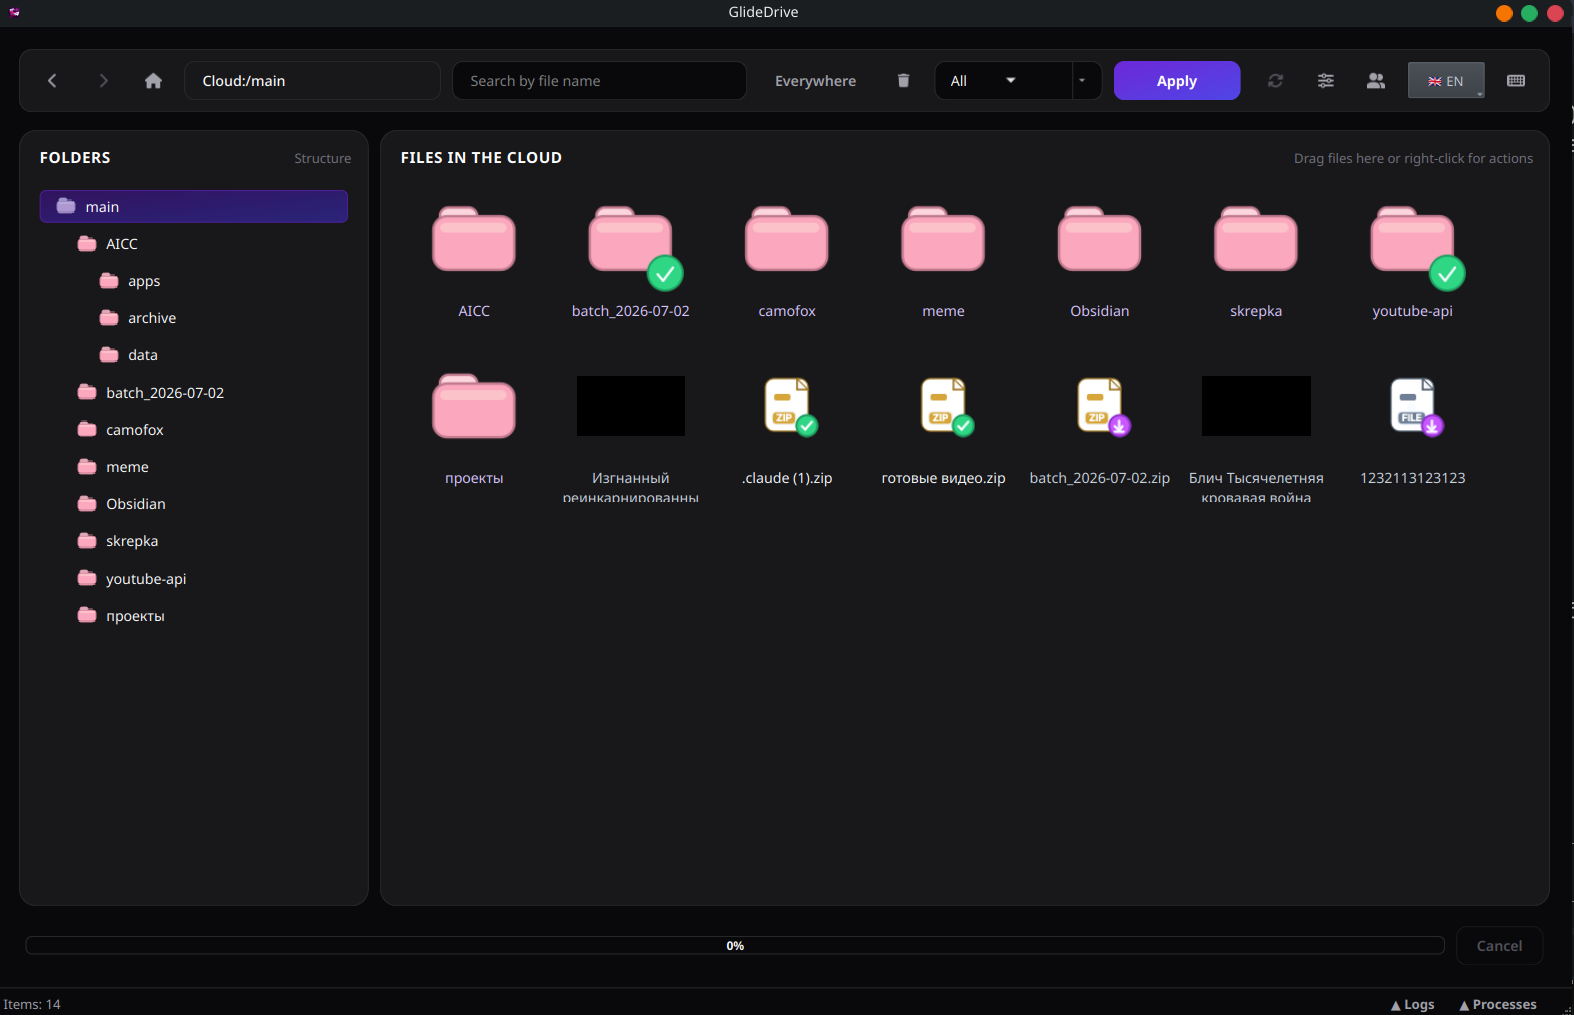
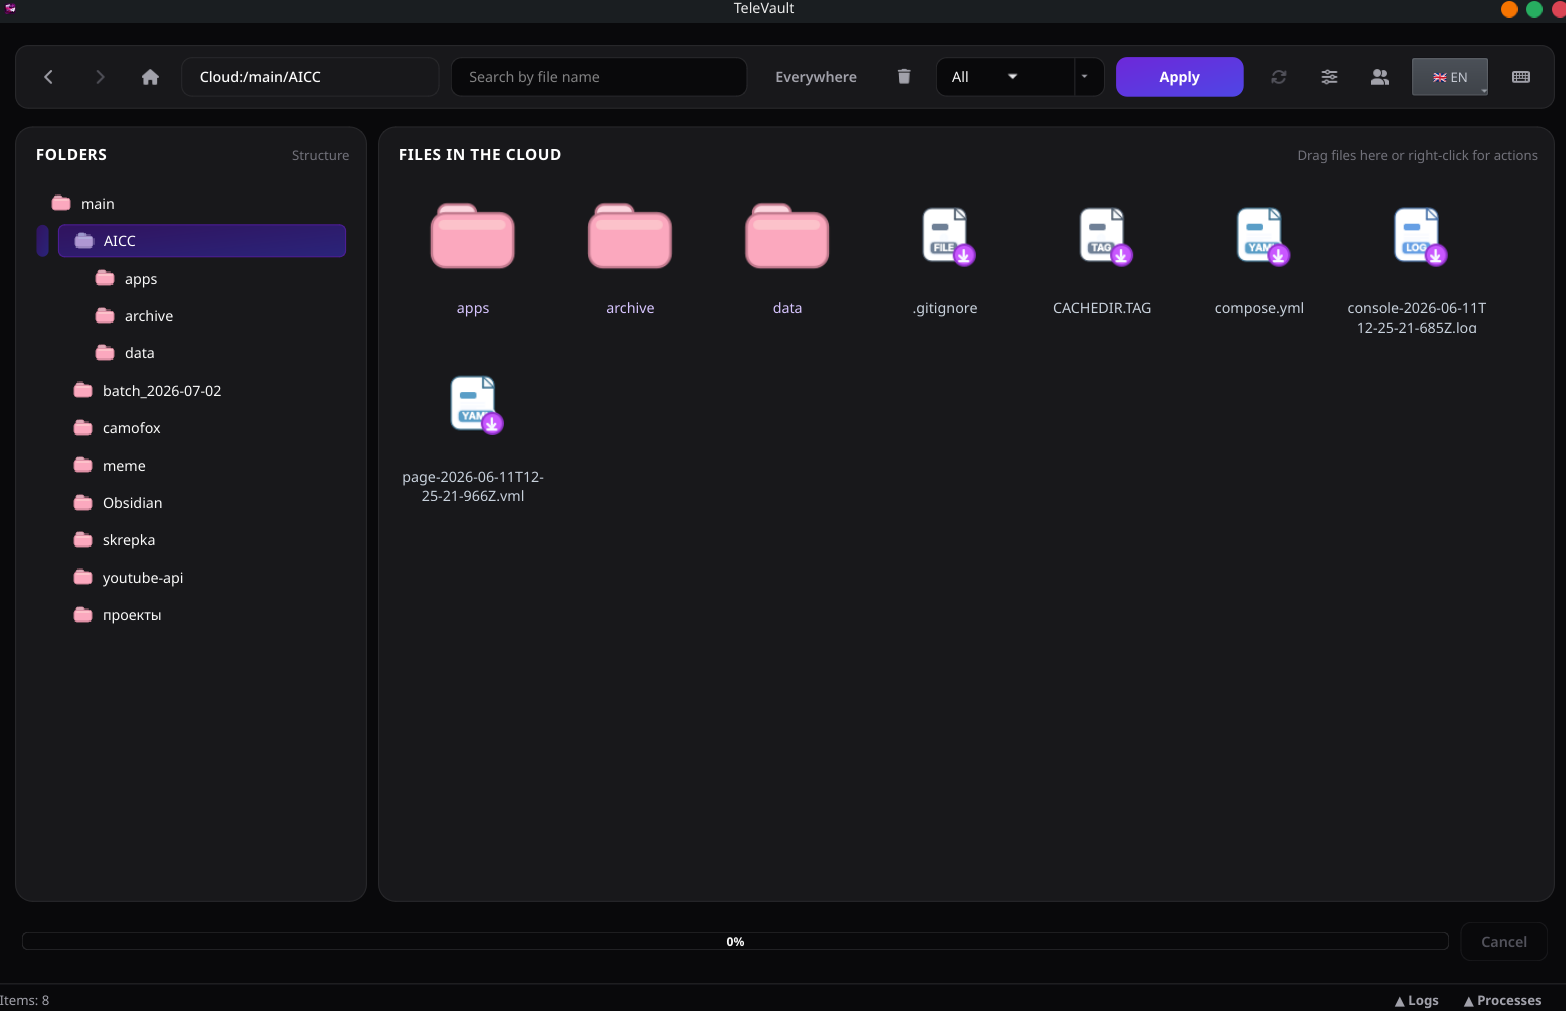
README: refresh screenshots for the new UI, add text editor shot
Old explorer.png predated recent UI changes. Also adds a second
screenshot showing the built-in cloud text editor.

diff --git a/README.md b/README.md
@@ -42,6 +42,10 @@
 
 *The file explorer: folders on the left, cloud contents on the right, with per-item "downloaded" badges.*
 
+![TeleVault built-in text editor](docs/screenshots/editor.png)
+
+*The built-in text editor, editing a file straight from the cloud with syntax highlighting.*
+
 ## How it works
 
 TeleVault uses your **regular Telegram user accounts** (via the MTProto API) and a **private channel per account** as a storage backend: